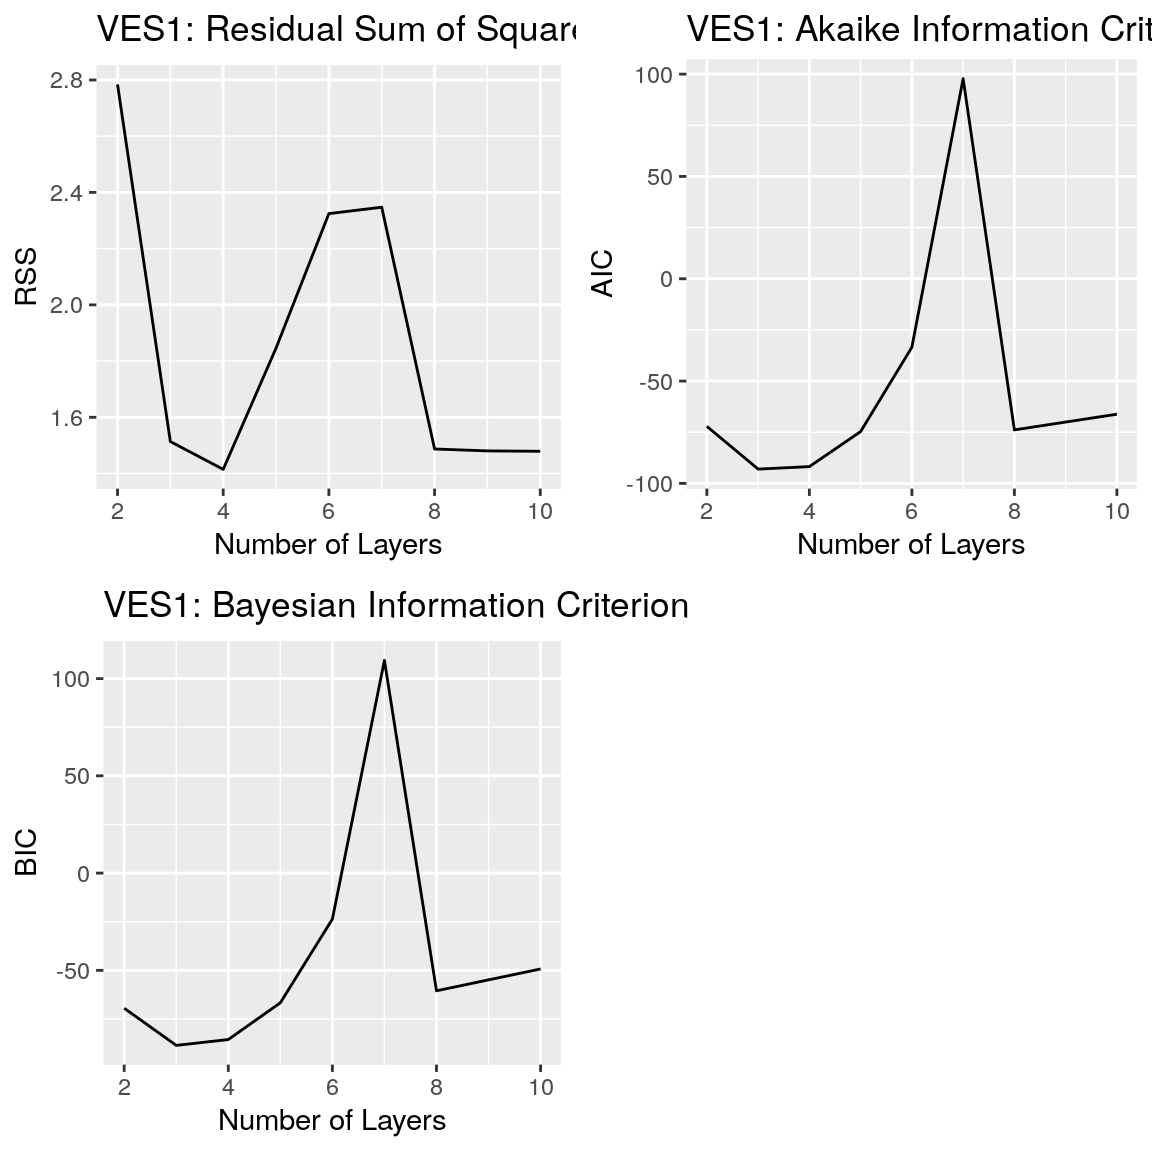
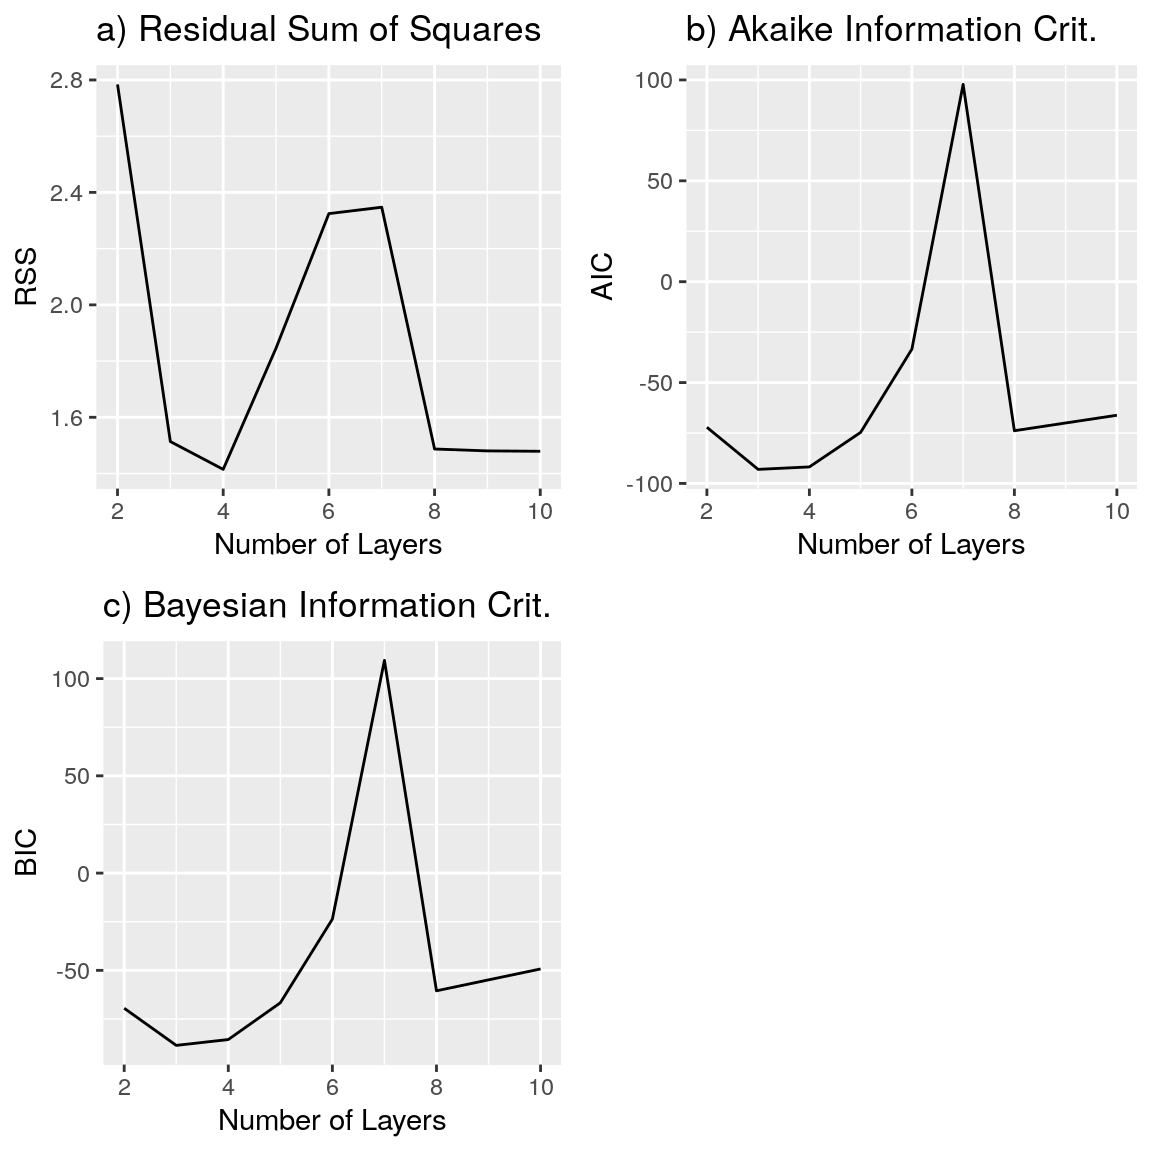
Package site updated.

diff --git a/docs/articles/rves-modelselection.html b/docs/articles/rves-modelselection.html
@@ -171,24 +171,32 @@ h^{0}=(h_{1},\ldots,h_{n})
 <div id="simple-ves" class="section level2">
 <h2 class="hasAnchor">
 <a href="#simple-ves" class="anchor"></a>Simple VES</h2>
+<p>In this example, a VES with a simple structure is used to test the stepwise parameter estimation and model selection. The VES data is loaded into R and a VES object is defined using:</p>
 <div class="sourceCode"><pre class="sourceCode r"><code class="sourceCode r"><span class="kw">data</span>(<span class="st">"ves_data1"</span>)
 ves1 &lt;-<span class="st"> </span><span class="kw"><a href="../reference/ves.html">ves</a></span>(<span class="dt">id =</span> <span class="st">"VES1"</span>, <span class="dt">ab2 =</span> ves_data1<span class="op">$</span>ab2, <span class="dt">apprho =</span> ves_data1<span class="op">$</span>apprho)</code></pre></div>
-<div class="sourceCode"><pre class="sourceCode r"><code class="sourceCode r">res.rss &lt;-<span class="st"> </span><span class="kw"><a href="../reference/calibrate_step_nls.html">calibrate_step_nls</a></span>(ves1, <span class="dt">max.layers =</span> <span class="dv">10</span>, <span class="dt">iterations =</span> <span class="dv">30</span>, 
-                              <span class="dt">ireport =</span> <span class="dv">5</span>, <span class="dt">trace =</span> <span class="ot">FALSE</span>)</code></pre></div>
-<div class="sourceCode"><pre class="sourceCode r"><code class="sourceCode r">p1 &lt;-<span class="st"> </span><span class="kw">ggplot</span>() <span class="op">+</span><span class="st"> </span><span class="kw">geom_line</span>(<span class="kw">aes</span>(<span class="dt">x =</span> Layers, <span class="dt">y =</span> RSS),<span class="dt">data =</span> res.rss.df) <span class="op">+</span><span class="st"> </span>
+<p>The stepwise parameter estimation procedure can be applied using:</p>
+<div class="sourceCode"><pre class="sourceCode r"><code class="sourceCode r">res.simple &lt;-<span class="st"> </span><span class="kw"><a href="../reference/calibrate_step_nls.html">calibrate_step_nls</a></span>(ves1, <span class="dt">max.layers =</span> <span class="dv">10</span>, <span class="dt">iterations =</span> <span class="dv">30</span>, 
+                                 <span class="dt">ireport =</span> <span class="dv">5</span>, <span class="dt">trace =</span> <span class="ot">FALSE</span>)</code></pre></div>
+<p>The values of the RSS, AIC and BIC are stored in the <em>all.measures</em> variable inside the <em>res.simple</em> list, and these are extracted using:</p>
+<div class="sourceCode"><pre class="sourceCode r"><code class="sourceCode r">res.all.df &lt;-<span class="st"> </span><span class="kw">as.data.frame</span>(res.imple<span class="op">$</span>all.measures)
+<span class="kw">names</span>(res.all.df) &lt;-<span class="st"> </span><span class="kw">c</span>(<span class="st">"RSS"</span>, <span class="st">"AIC"</span>, <span class="st">"BIC"</span>)
+res.all.df<span class="op">$</span>Layers &lt;-<span class="st"> </span><span class="kw">seq</span>(<span class="dv">2</span>, <span class="dv">10</span> , <span class="dt">by =</span> <span class="dv">1</span>)</code></pre></div>
+<p>The plot of the RSS, AIC and BIC for this simple VES is shown below. The minimum value of RSS is obtained for <span class="math inline">\(4\)</span> layers while only <span class="math inline">\(3\)</span> layers are needed if the AIC and BIC are the applied criteria.</p>
+<div class="sourceCode"><pre class="sourceCode r"><code class="sourceCode r">p1 &lt;-<span class="st"> </span><span class="kw">ggplot</span>() <span class="op">+</span><span class="st"> </span><span class="kw">geom_line</span>(<span class="kw">aes</span>(<span class="dt">x =</span> Layers, <span class="dt">y =</span> RSS), <span class="dt">data =</span> res.all.df) <span class="op">+</span><span class="st"> </span>
 <span class="st">  </span><span class="kw">xlab</span>(<span class="st">"Number of Layers"</span>) <span class="op">+</span><span class="st"> </span>
 <span class="st">  </span><span class="kw">ylab</span>(<span class="st">"RSS"</span>) <span class="op">+</span><span class="st"> </span>
-<span class="st">  </span><span class="kw">ggtitle</span>(<span class="st">"VES1: Residual Sum of Squares"</span>)
-p2 &lt;-<span class="st"> </span><span class="kw">ggplot</span>() <span class="op">+</span><span class="st"> </span><span class="kw">geom_line</span>(<span class="kw">aes</span>(<span class="dt">x =</span> Layers, <span class="dt">y =</span> AIC),<span class="dt">data =</span> res.rss.df) <span class="op">+</span><span class="st"> </span>
+<span class="st">  </span><span class="kw">ggtitle</span>(<span class="st">"a) Residual Sum of Squares"</span>)
+p2 &lt;-<span class="st"> </span><span class="kw">ggplot</span>() <span class="op">+</span><span class="st"> </span><span class="kw">geom_line</span>(<span class="kw">aes</span>(<span class="dt">x =</span> Layers, <span class="dt">y =</span> AIC),<span class="dt">data =</span> res.all.df) <span class="op">+</span><span class="st"> </span>
 <span class="st">  </span><span class="kw">xlab</span>(<span class="st">"Number of Layers"</span>) <span class="op">+</span><span class="st"> </span>
 <span class="st">  </span><span class="kw">ylab</span>(<span class="st">"AIC"</span>) <span class="op">+</span><span class="st"> </span>
-<span class="st">  </span><span class="kw">ggtitle</span>(<span class="st">"VES1: Akaike Information Criterion"</span>)
-p3 &lt;-<span class="st"> </span><span class="kw">ggplot</span>() <span class="op">+</span><span class="st"> </span><span class="kw">geom_line</span>(<span class="kw">aes</span>(<span class="dt">x =</span> Layers, <span class="dt">y =</span> BIC),<span class="dt">data =</span> res.rss.df) <span class="op">+</span><span class="st"> </span>
+<span class="st">  </span><span class="kw">ggtitle</span>(<span class="st">"b) Akaike Information Crit."</span>)
+p3 &lt;-<span class="st"> </span><span class="kw">ggplot</span>() <span class="op">+</span><span class="st"> </span><span class="kw">geom_line</span>(<span class="kw">aes</span>(<span class="dt">x =</span> Layers, <span class="dt">y =</span> BIC),<span class="dt">data =</span> res.all.df) <span class="op">+</span><span class="st"> </span>
 <span class="st">  </span><span class="kw">xlab</span>(<span class="st">"Number of Layers"</span>) <span class="op">+</span><span class="st"> </span>
 <span class="st">  </span><span class="kw">ylab</span>(<span class="st">"BIC"</span>) <span class="op">+</span><span class="st"> </span>
-<span class="st">  </span><span class="kw">ggtitle</span>(<span class="st">"VES1: Bayesian Information Criterion"</span>)
+<span class="st">  </span><span class="kw">ggtitle</span>(<span class="st">"c) Bayesian Information Crit."</span>)
 <span class="kw">grid.arrange</span>(p1, p2 ,p3, <span class="dt">ncol =</span> <span class="dv">2</span>)</code></pre></div>
 <p><img src="rves-modelselection_files/figure-html/simple_plot_model-1.png" width="576" style="display: block; margin: auto;"></p>
+<p>The layered model estimated using the RSS criteria is shown in the following table:</p>
 <div class="sourceCode"><pre class="sourceCode r"><code class="sourceCode r">knitr<span class="op">::</span><span class="kw"><a href="http://www.rdocumentation.org/packages/knitr/topics/kable">kable</a></span>(rss.results.df, <span class="dt">format =</span> <span class="st">"html"</span>) <span class="op">%&gt;%</span>
 <span class="st">  </span><span class="kw">kable_styling</span>(<span class="dt">position =</span> <span class="st">"center"</span>)</code></pre></div>
 <table class="table" style="margin-left: auto; margin-right: auto;">
@@ -250,11 +258,7 @@ Layer4
 </tr>
 </tbody>
 </table>
-<div class="sourceCode"><pre class="sourceCode r"><code class="sourceCode r">p1rss &lt;-<span class="st"> </span><span class="kw">plot</span>(ves1.rss, <span class="dt">type =</span> <span class="st">"ves"</span>, <span class="dt">main =</span> <span class="st">"4 Layers, Model Selection (RSS)"</span>)
-p1aic &lt;-<span class="st"> </span><span class="kw">plot</span>(ves1.aic, <span class="dt">type =</span> <span class="st">"ves"</span>, <span class="dt">main =</span> <span class="st">"3 Layers, Model Selection (AIC)"</span>)
-p1bic &lt;-<span class="st"> </span><span class="kw">plot</span>(ves1.bic, <span class="dt">type =</span> <span class="st">"ves"</span>, <span class="dt">main =</span> <span class="st">"3 Layers, Model Selection (BIC)"</span>)
-<span class="kw">grid.arrange</span>(p1rss, p1aic, p1bic, <span class="dt">ncol =</span> <span class="dv">1</span>)</code></pre></div>
-<p><img src="rves-modelselection_files/figure-html/simple_plot_results-1.png" width="576" style="display: block; margin: auto;"></p>
+<p>whereas the model estimated using the AIC and BIC criteria is:</p>
 <div class="sourceCode"><pre class="sourceCode r"><code class="sourceCode r">knitr<span class="op">::</span><span class="kw"><a href="http://www.rdocumentation.org/packages/knitr/topics/kable">kable</a></span>(aic.results.df, <span class="dt">format =</span> <span class="st">"html"</span>) <span class="op">%&gt;%</span>
 <span class="st">  </span><span class="kw">kable_styling</span>(<span class="dt">position =</span> <span class="st">"center"</span>)</code></pre></div>
 <table class="table" style="margin-left: auto; margin-right: auto;">
@@ -305,56 +309,13 @@ Layer3
 </tr>
 </tbody>
 </table>
-<div class="sourceCode"><pre class="sourceCode r"><code class="sourceCode r">knitr<span class="op">::</span><span class="kw"><a href="http://www.rdocumentation.org/packages/knitr/topics/kable">kable</a></span>(bic.results.df, <span class="dt">format =</span> <span class="st">"html"</span>) <span class="op">%&gt;%</span>
-<span class="st">  </span><span class="kw">kable_styling</span>(<span class="dt">position =</span> <span class="st">"center"</span>)</code></pre></div>
-<table class="table" style="margin-left: auto; margin-right: auto;">
-<thead><tr>
-<th style="text-align:left;">
-Layer
-</th>
-<th style="text-align:left;">
-Resistivity
-</th>
-<th style="text-align:left;">
-Thickness
-</th>
-</tr></thead>
-<tbody>
-<tr>
-<td style="text-align:left;">
-Layer1
-</td>
-<td style="text-align:left;">
-43.08747
-</td>
-<td style="text-align:left;">
-2.822144
-</td>
-</tr>
-<tr>
-<td style="text-align:left;">
-Layer2
-</td>
-<td style="text-align:left;">
-81.52829
-</td>
-<td style="text-align:left;">
-13.38822
-</td>
-</tr>
-<tr>
-<td style="text-align:left;">
-Layer3
-</td>
-<td style="text-align:left;">
-20.18257
-</td>
-<td style="text-align:left;">
-8.695652
-</td>
-</tr>
-</tbody>
-</table>
+<p>The models chosen using different measures are shown in the following figure.</p>
+<div class="sourceCode"><pre class="sourceCode r"><code class="sourceCode r">p1rss &lt;-<span class="st"> </span><span class="kw">plot</span>(ves1.rss, <span class="dt">type =</span> <span class="st">"ves"</span>, <span class="dt">main =</span> <span class="st">"4 Layers, Model Selection (RSS)"</span>)
+p1aic &lt;-<span class="st"> </span><span class="kw">plot</span>(ves1.aic, <span class="dt">type =</span> <span class="st">"ves"</span>, <span class="dt">main =</span> <span class="st">"3 Layers, Model Selection (AIC)"</span>)
+p1bic &lt;-<span class="st"> </span><span class="kw">plot</span>(ves1.bic, <span class="dt">type =</span> <span class="st">"ves"</span>, <span class="dt">main =</span> <span class="st">"3 Layers, Model Selection (BIC)"</span>)
+<span class="kw">grid.arrange</span>(p1rss, p1aic, p1bic, <span class="dt">ncol =</span> <span class="dv">1</span>)</code></pre></div>
+<p><img src="rves-modelselection_files/figure-html/simple_plot_results-1.png" width="576" style="display: block; margin: auto;"></p>
+<p>The differences between the fitted models are not great, and the same model is chosen by the AIC and BIC measures. The second layer in the models chosen by the AIC and BIC has a resistivity close to the mean value of the resistivity of the second and third layers in the model chosen by the RSS measure. In this specific case there are no large differences in the number of layers selected and therefore the three models chosen can be considered as equivalent.</p>
 </div>
 <div id="complex-ves" class="section level2">
 <h2 class="hasAnchor">

diff --git a/docs/articles/rves-tutorial.html b/docs/articles/rves-tutorial.html
@@ -249,10 +249,10 @@ sev1a<span class="op">$</span>interpreted &lt;-<span class="st"> </span><span cl
 <a href="#references" class="anchor"></a>References</h2>
 <div id="refs" class="references">
 <div id="ref-GHOSH_1971">
-<p>GHOSH, D. P. 1971. “THE APPLICATION OF LINEAR FILTER THEORY TO THE DIRECT INTERPRETATION OF GEOELECTRICAL RESISTIVITY SOUNDING MEASUREMENTS.” <em>Geophysical Prospecting</em> 19 (2). Wiley-Blackwell: 192–217. doi:<a href="https://doi.org/10.1111/j.1365-2478.1971.tb00593.x">10.1111/j.1365-2478.1971.tb00593.x</a>.</p>
+<p>GHOSH, D. P. 1971. “THE APPLICATION OF LINEAR FILTER THEORY TO THE DIRECT INTERPRETATION OF GEOELECTRICAL RESISTIVITY SOUNDING MEASUREMENTS.” <em>Geophysical Prospecting</em> 19 (2). Wiley: 192–217. doi:<a href="https://doi.org/10.1111/j.1365-2478.1971.tb00593.x">10.1111/j.1365-2478.1971.tb00593.x</a>.</p>
 </div>
 <div id="ref-GUPTASARMA_1982">
-<p>GUPTASARMA, D. 1982. “OPTIMIZATION OF SHORT DIGITAL LINEAR FILTERS FOR INCREASED ACCURACY.” <em>Geophysical Prospecting</em> 30 (4). Wiley-Blackwell: 501–14. doi:<a href="https://doi.org/10.1111/j.1365-2478.1982.tb01320.x">10.1111/j.1365-2478.1982.tb01320.x</a>.</p>
+<p>GUPTASARMA, D. 1982. “OPTIMIZATION OF SHORT DIGITAL LINEAR FILTERS FOR INCREASED ACCURACY.” <em>Geophysical Prospecting</em> 30 (4). Wiley: 501–14. doi:<a href="https://doi.org/10.1111/j.1365-2478.1982.tb01320.x">10.1111/j.1365-2478.1982.tb01320.x</a>.</p>
 </div>
 </div>
 </div>
